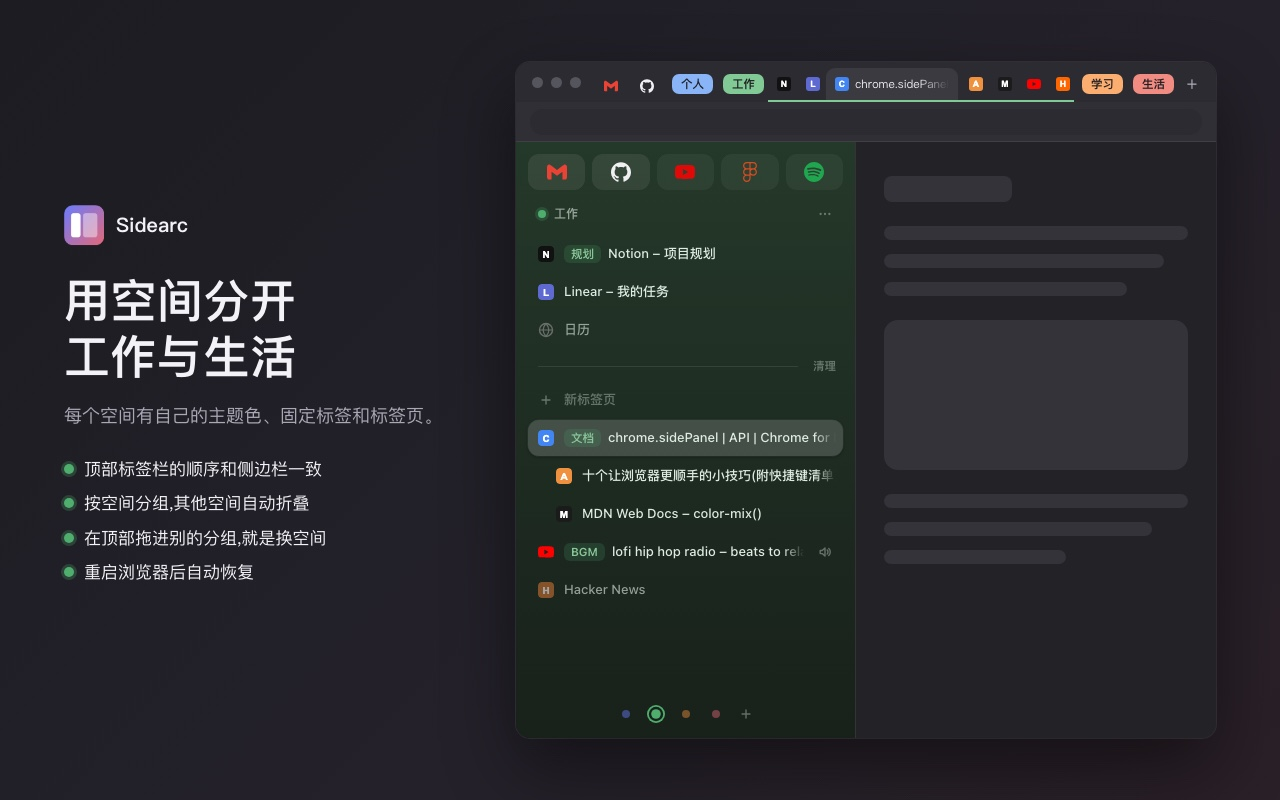
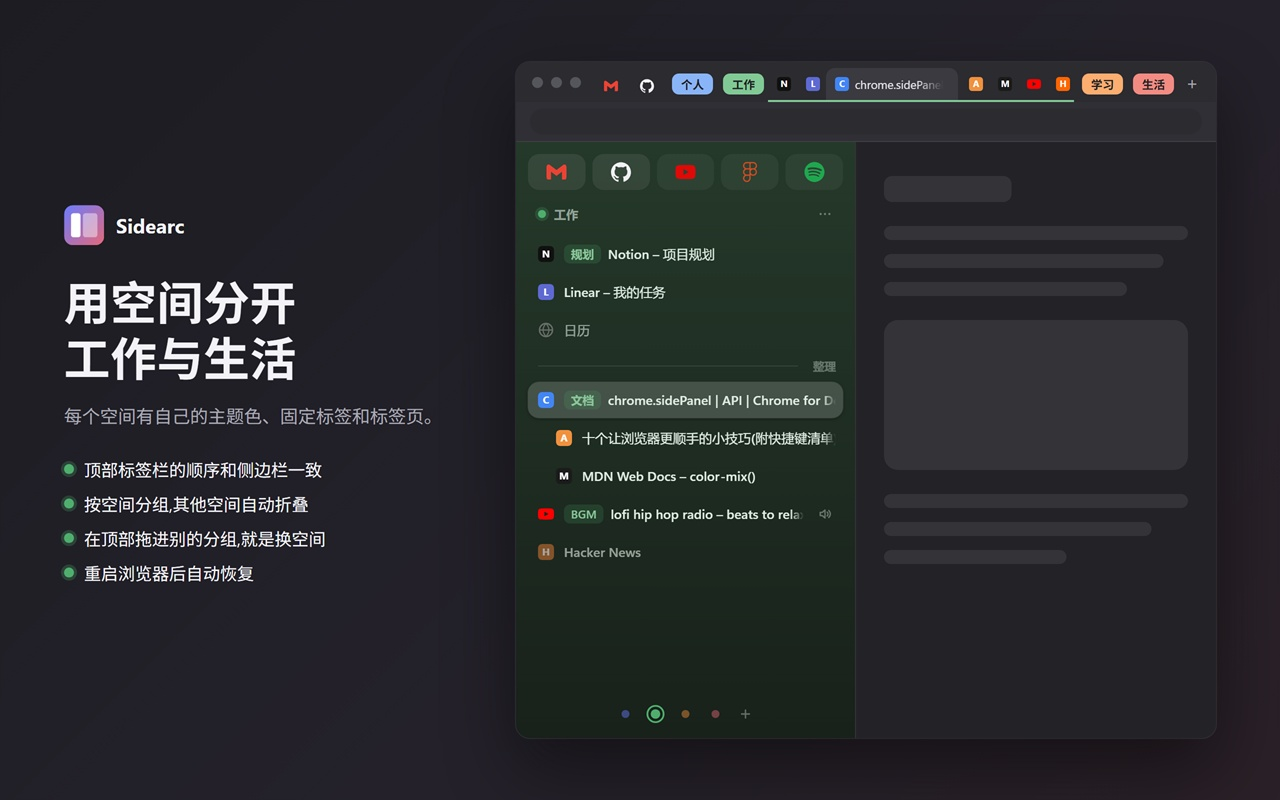
Store screenshots: make the script work on Windows, show Tidy
- The sidebar came out blank since the fade-in landed: it waits for a
  class that boot.js adds, which the static page never got.
- The new-tab row was the old labelled one; it's the round plus now.
- On Windows the path became C:\C:\..., the running Chrome took over the
  launch, the JPEGs were heavily compressed and small CJK text looked
  rough. Use fileURLToPath, a separate profile, PowerShell's encoder at
  a quality matching sips 90, a 2x render scaled down, and weight 700 for
  the headline where Windows would switch to Segoe UI Black.

diff --git a/store/screenshots/make.js b/store/screenshots/make.js
@@ -2,17 +2,19 @@
 //   中文 → store/screenshot-*.jpg、store/promo-small-440x280.jpg
 //   英文 → store/en/ 下同名文件
 // 侧边栏部分直接套用 sidepanel.css,界面改了重新运行即可:npm run screenshots。
-// 侧边栏自带的文字(搜索框、清理、新标签页)取自 src/i18n.js,跟着截图的语言
-// 需要本机装有 Chrome(路径可用环境变量 CHROME 指定);macOS 上用自带的 sips 转成高质量 JPEG。
+// 侧边栏自带的文字(搜索框、整理)取自 src/i18n.js,跟着截图的语言
+// 需要本机装有 Chrome(路径可用环境变量 CHROME 指定);macOS 上用自带的 sips、Windows 上用自带的 PowerShell 转成高质量 JPEG。
 
 import { execFileSync } from 'node:child_process';
 import { copyFileSync, existsSync, mkdirSync, mkdtempSync, readFileSync, writeFileSync } from 'node:fs';
 import { tmpdir } from 'node:os';
 import { join } from 'node:path';
+import { fileURLToPath, pathToFileURL } from 'node:url';
 import { BRAND_ICONS } from './brand-icons.js';
 import { setLangPref, t as ui } from '../../src/i18n.js';
 
-const ROOT = new URL('../../', import.meta.url).pathname;
+// 不能用 URL 的 pathname:Windows 上是 /C:/…,和别的路径一拼就成了 C:\C:\…
+const ROOT = fileURLToPath(new URL('../../', import.meta.url));
 const CHROME =
   process.env.CHROME ??
   [
@@ -21,6 +23,11 @@ const CHROME =
     '/usr/bin/google-chrome',
   ].find(existsSync);
 if (!CHROME) throw new Error('找不到 Chrome,请用环境变量 CHROME 指定路径');
+
+// Windows 上按 2 倍出图再缩小:按原尺寸出的中文小字笔画粗细不匀,发毛
+const SCALE = process.platform === 'win32' ? 2 : 1;
+// 大标题的粗细:Windows 的系统字体到 800 会换成 Segoe UI Black,和 macOS 上出的图差得远,用 700
+const HEAVY = process.platform === 'win32' ? 700 : 800;
 
 const OUT = mkdtempSync(join(tmpdir(), 'sidearc-shots-'));
 copyFileSync(join(ROOT, 'sidepanel.css'), join(OUT, 'sidepanel.css'));
@@ -152,14 +159,13 @@ function panel(t, active, dark, folder) {
     row('H', 'Hacker News', { cls: 'discarded' });
   const dots = SPACE_COLORS.map((s, i) => `<button class="space-dot${i === active ? ' on' : ''}"><i style="color:${s.color}"></i></button>`).join('');
   return `<!doctype html><html style="--accent:${color};color-scheme:${dark ? 'dark' : 'light'}"><head><meta charset="utf-8">
-<link rel="stylesheet" href="sidepanel.css">${dark ? `<style>${darkVars}</style>` : ''}</head><body>
+<link rel="stylesheet" href="sidepanel.css"><style>#scroll{scrollbar-width:none}</style>${dark ? `<style>${darkVars}</style>` : ''}</head><body class="shown settled"><!-- 这两个 class 平时由脚本在淡入时加上,没有的话整个侧边栏是透明的 -->
 <header><label class="search">${SEARCH}<input id="search" placeholder="${ui('searchPlaceholder')}"></label>
 <section id="favs" class="zone grid" style="--cols:5">${favs}</section>
 <div class="space-head"><span id="space-name">${esc(t.spaces[active])}</span><button class="ghost">${MORE}</button></div></header>
 <main id="scroll"><section id="pins" class="zone list">${pins}</section>
-<div class="divider"><span></span><button class="ghost">${ui('clear')}</button></div>
-<button class="row new">${PLUS}<span class="title">${ui('newTab')}</span></button>
-<section id="tabs" class="zone list">${tabs}</section></main>
+<div class="divider"><span></span><button class="ghost">${ui('tidy')}</button></div>
+<section id="tabs" class="zone list">${tabs}<button class="row new">${PLUS}</button></section></main>
 <footer id="spaces">${dots}<button class="space-dot">${PLUS}</button></footer></body></html>`;
 }
 
@@ -186,14 +192,39 @@ function strip(t, active, dark, folder) {
   return out + '<div class="newtab">+</div>';
 }
 
-// 把 OUT 里的一个 HTML 截成 JPEG:先出 PNG 再用 sips 转(画质好);没有 sips(非 macOS)就直接让 Chrome 出 JPEG
+// PNG 转成高质量 JPEG(sips 的 90 和 Windows 的 96 差不多;Chrome 自己出的 JPEG 压得太狠,文字边上发糊)
+function toJpeg(png, file, [w, h]) {
+  if (process.platform === 'darwin') return execFileSync('sips', ['-s', 'format', 'jpeg', '-s', 'formatOptions', '90', png, '--out', file], { stdio: 'ignore' });
+  if (process.platform !== 'win32') throw new Error('没有自带的转换工具');
+  // 路径走环境变量,不用管里面的空格和引号
+  const script = [
+    "$ErrorActionPreference = 'Stop'",
+    'Add-Type -AssemblyName System.Drawing',
+    '$img = [System.Drawing.Image]::FromFile($env:SHOT_PNG)',
+    "$codec = [System.Drawing.Imaging.ImageCodecInfo]::GetImageEncoders() | Where-Object { $_.MimeType -eq 'image/jpeg' }",
+    '$opts = New-Object System.Drawing.Imaging.EncoderParameters 1',
+    '$opts.Param[0] = New-Object System.Drawing.Imaging.EncoderParameter ([System.Drawing.Imaging.Encoder]::Quality), ([long]96)',
+    `$out = New-Object System.Drawing.Bitmap ${w}, ${h}, ([System.Drawing.Imaging.PixelFormat]::Format24bppRgb)`,
+    '$g = [System.Drawing.Graphics]::FromImage($out)',
+    '$g.InterpolationMode = [System.Drawing.Drawing2D.InterpolationMode]::HighQualityBicubic',
+    '$g.PixelOffsetMode = [System.Drawing.Drawing2D.PixelOffsetMode]::HighQuality',
+    '$attr = New-Object System.Drawing.Imaging.ImageAttributes',
+    '$attr.SetWrapMode([System.Drawing.Drawing2D.WrapMode]::TileFlipXY)', // 不然最外一圈会掺进透明,发暗
+    `$g.DrawImage($img, (New-Object System.Drawing.Rectangle 0, 0, ${w}, ${h}), 0, 0, $img.Width, $img.Height, [System.Drawing.GraphicsUnit]::Pixel, $attr)`,
+    '$out.Save($env:SHOT_JPG, $codec, $opts)',
+  ].join('; ');
+  execFileSync('powershell', ['-NoProfile', '-Command', script], { stdio: 'ignore', env: { ...process.env, SHOT_PNG: png, SHOT_JPG: file } });
+}
+
+// 把 OUT 里的一个 HTML 截成 JPEG:先出 PNG 再转(画质好);转不了(比如 Linux)就直接让 Chrome 出 JPEG
 function capture(html, file, [w, h]) {
   const png = join(OUT, html.replace(/\.html$/, '.png'));
-  const flags = ['--headless=new', '--disable-gpu', '--hide-scrollbars', '--force-device-scale-factor=1', `--window-size=${w},${h}`];
-  const shoot = (to) => execFileSync(CHROME, [...flags, `--screenshot=${to}`, 'file://' + join(OUT, html)], { stdio: 'ignore' });
+  // 用单独的用户目录:Windows 上正开着的 Chrome 会接走这次启动,截不出图,也不该碰用户自己的资料
+  const flags = ['--headless=new', `--user-data-dir=${join(OUT, 'profile')}`, '--no-first-run', '--disable-gpu', '--hide-scrollbars', `--window-size=${w},${h}`];
+  const shoot = (to, scale = 1) => execFileSync(CHROME, [...flags, `--force-device-scale-factor=${scale}`, `--screenshot=${to}`, pathToFileURL(join(OUT, html)).href], { stdio: 'ignore' });
   try {
-    shoot(png);
-    execFileSync('sips', ['-s', 'format', 'jpeg', '-s', 'formatOptions', '90', png, '--out', file], { stdio: 'ignore' });
+    shoot(png, SCALE);
+    toJpeg(png, file, [w, h]);
   } catch {
     shoot(file);
   }
@@ -213,7 +244,7 @@ function page(t, { file, active, dark, folder }, { title, sub, bullets }) {
 *{box-sizing:border-box;margin:0} body{width:1280px;height:800px;overflow:hidden;background:${c.bg};font-family:${t.font};color:${c.fg};-webkit-font-smoothing:antialiased}
 .copy{position:absolute;left:64px;top:50%;transform:translateY(-50%);width:410px}
 .brand{display:flex;align-items:center;gap:12px;font-weight:700;font-size:20px;margin-bottom:28px} .brand img{width:40px;height:40px}
-h1{font-size:46px;line-height:1.22;font-weight:800;letter-spacing:.5px} .sub{margin:16px 0 26px;font-size:18px;line-height:1.65;color:${c.fg2}}
+h1{font-size:46px;line-height:1.22;font-weight:${HEAVY};letter-spacing:.5px} .sub{margin:16px 0 26px;font-size:18px;line-height:1.65;color:${c.fg2}}
 ul{list-style:none;padding:0;font-size:17px;line-height:1.5} li{position:relative;padding-left:20px;margin:9px 0}
 li::before{content:"";position:absolute;left:0;top:7px;width:10px;height:10px;border-radius:50%;background:${color};box-shadow:0 0 0 3px color-mix(in srgb,${color} 25%,transparent)}
 .win{position:absolute;left:516px;top:62px;width:700px;height:676px;border-radius:14px;overflow:hidden;background:${c.win};box-shadow:0 0 0 1px ${c.line},0 30px 70px rgba(0,0,0,${c.shadow})}
@@ -251,7 +282,7 @@ function promo(t) {
 background:linear-gradient(135deg,#6b7cff 0%,#a06be0 50%,#e5687a 100%);font-family:${t.font};color:#fff;-webkit-font-smoothing:antialiased}
 .mark{margin-top:32px;width:112px;height:112px;border-radius:24px;background:rgba(255,255,255,.18);display:flex;gap:7px;padding:17px 15px}
 .mark i{border-radius:6px;background:#fff} .mark i:first-child{width:18px} .mark i:last-child{flex:1;background:rgba(255,255,255,.62)}
-h1{margin-top:22px;font-family:system-ui,-apple-system,sans-serif;font-size:40px;font-weight:800;letter-spacing:.5px} p{margin-top:12px;font-size:15px;opacity:.88}
+h1{margin-top:22px;font-family:system-ui,-apple-system,sans-serif;font-size:40px;font-weight:${HEAVY};letter-spacing:.5px} p{margin-top:12px;font-size:15px;opacity:.88}
 </style></head><body><div class="mark"><i></i><i></i></div><h1>Sidearc</h1><p>${esc(t.promo)}</p></body></html>`
   );
   capture(n, join(ROOT, t.dir, 'promo-small-440x280.jpg'), [440, 280]);
